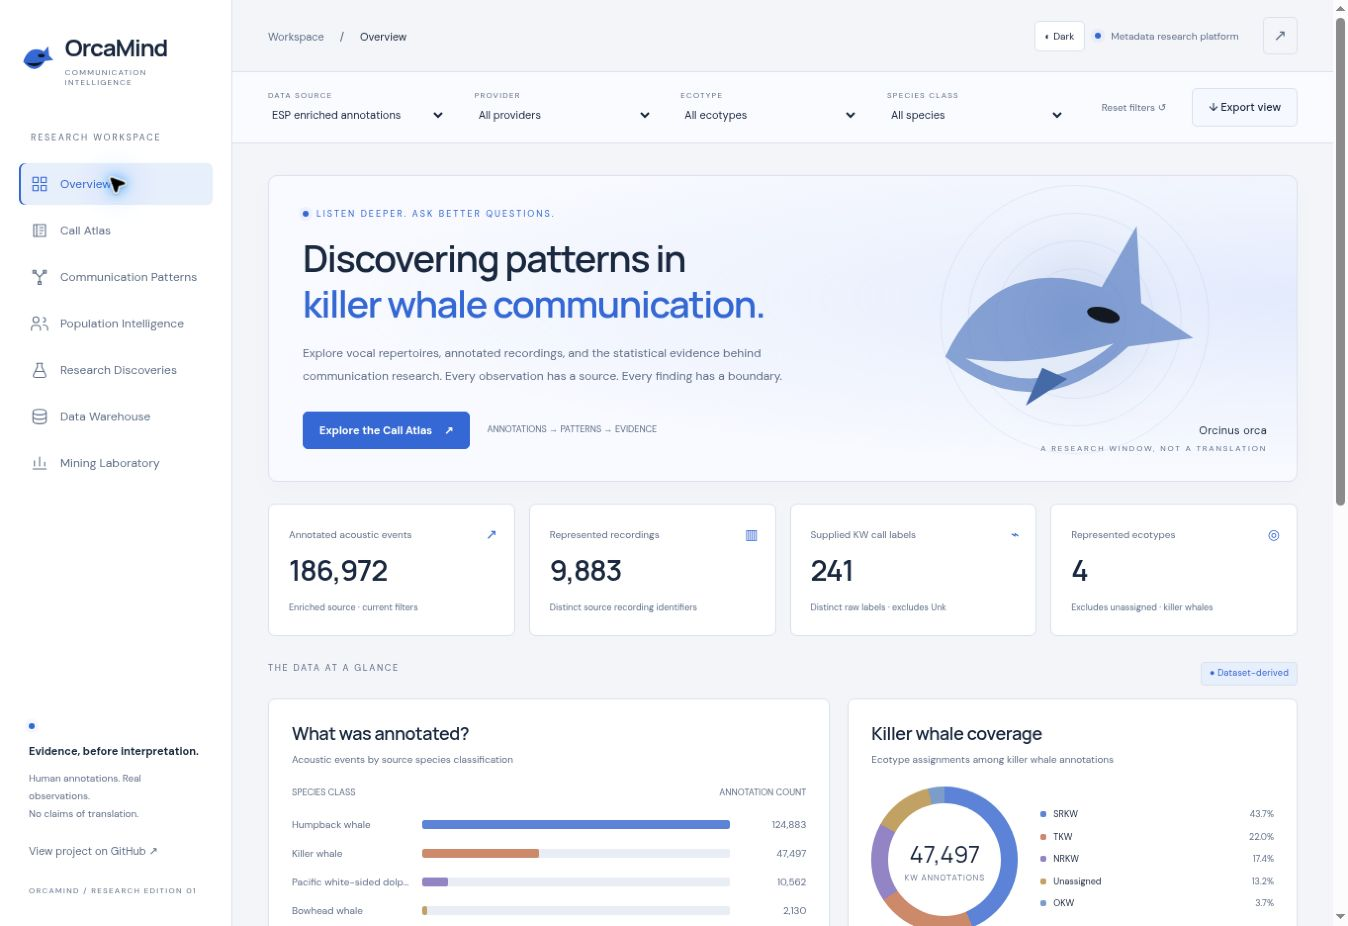
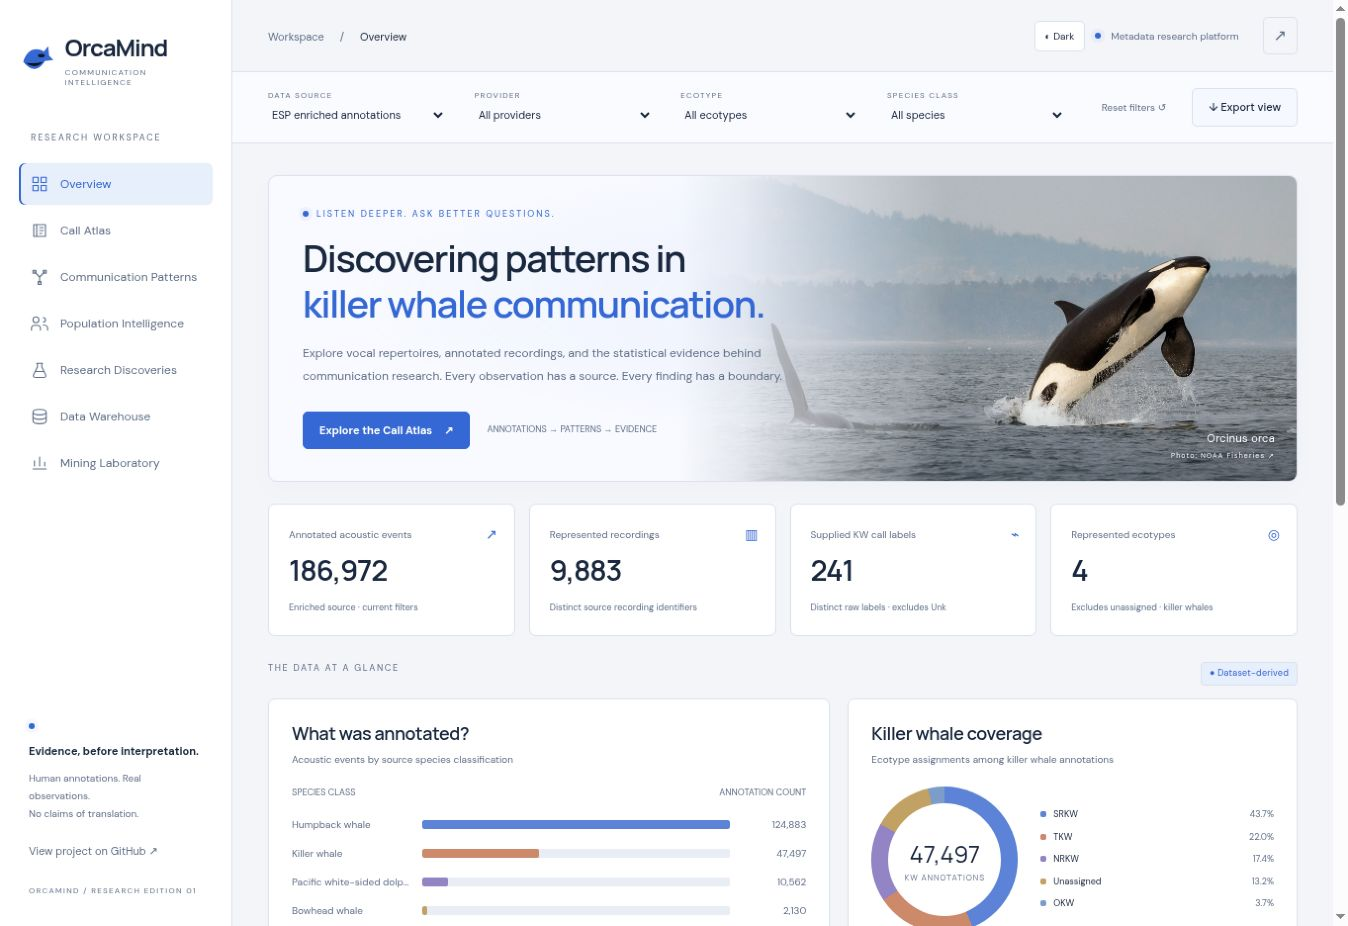
Replace hero illustration with faded orca photography

Changed region(s): [[0.5297, 0.1814, 0.9659, 0.5443], [0.0623, 0.1814, 0.0935, 0.2117]]

diff --git a/dist/app.js b/dist/app.js
@@ -32,7 +32,7 @@ function overview(){
  const a=rows(), n=sum(a), rec=new Set(a.flatMap(x=>x.recordings)), calls=unique(a.filter(x=>x.call&&x.species==='Killer whale'&&!['unk','unknown'].includes(x.call.toLowerCase())), 'call'), populations=grouped(a.filter(x=>x.species==='Killer whale'),'population');
  const popTotal=sum(populations),pops=populations.filter(x=>x.name!=='Unassigned'), species=grouped(a,'species');let angle=0;
  const gradient=populations.map((x,i)=>{const start=angle;angle+=x.count/(popTotal||1)*100;return `${colors[i%colors.length]} ${start}% ${angle}%`}).join(',');
- return `<section class="hero"><div class="hero-copy"><div class="eyebrow"><span class="live-dot"></span> LISTEN DEEPER. ASK BETTER QUESTIONS.</div><h1>Discovering patterns in<br><em>killer whale communication.</em></h1><p>Explore vocal repertoires, annotated recordings, and the statistical evidence behind communication research. Every observation has a source. Every finding has a boundary.</p><div class="hero-actions"><a class="button" href="#atlas">Explore the Call Atlas <span>↗</span></a><span class="hero-note">ANNOTATIONS → PATTERNS → EVIDENCE</span></div></div><div class="hero-art" aria-hidden="true"><svg viewBox="0 0 400 300"><defs><radialGradient id="ocean"><stop stop-color="#708fc7" stop-opacity=".3"/><stop offset="1" stop-color="#ecf1fa" stop-opacity="0"/></radialGradient></defs><circle cx="205" cy="140" r="130" fill="url(#ocean)"/>${[55,85,115,145].map(r=>`<circle cx="205" cy="140" r="${r}" fill="none" stroke="#8ea8d5" stroke-opacity=".17"/>`).join('')}<path d="M65 180Q120 65 234 105l38-66 5 83 56 38-70 9Q163 262 65 180Z" fill="#6386c5" fill-opacity=".75"/><path d="M87 182q82 50 160-16-91 27-160 16" fill="#e4ebf8"/><ellipse cx="236" cy="135" rx="18" ry="8" transform="rotate(14 236 135)" fill="#fffffffff" fill-opacity=".85"/><path d="M170 192l-18 41 45-29" fill="#4669a7"/></svg><div class="art-label"><strong>Orcinus orca</strong>A RESEARCH WINDOW, NOT A TRANSLATION</div></div></section>
+ return `<section class="hero"><div class="hero-copy"><div class="eyebrow"><span class="live-dot"></span> LISTEN DEEPER. ASK BETTER QUESTIONS.</div><h1>Discovering patterns in<br><em>killer whale communication.</em></h1><p>Explore vocal repertoires, annotated recordings, and the statistical evidence behind communication research. Every observation has a source. Every finding has a boundary.</p><div class="hero-actions"><a class="button" href="#atlas">Explore the Call Atlas <span>↗</span></a><span class="hero-note">ANNOTATIONS → PATTERNS → EVIDENCE</span></div></div><div class="hero-art"><img class="hero-photo" src="assets/orca-hero.jpg" width="1200" height="800" alt="A wild killer whale breaching above the ocean" fetchpriority="high" decoding="async"><div class="art-label"><strong>Orcinus orca</strong><a href="https://www.fisheries.noaa.gov/feature-story/limiting-chinook-fishing-low-return-years-help-killer-whales-what-do-you-think" target="_blank" rel="noreferrer">Photo: NOAA Fisheries ↗</a></div></div></section>
  <div class="stats">${stat('Annotated acoustic events',n,`${source==='compiled'?'Compiled':'Enriched'} source · current filters`)}${stat('Represented recordings',rec.size,'Distinct source recording identifiers','▥')}${stat('Supplied KW call labels',calls.length||'Unavailable',calls.length?'Distinct raw labels · excludes Unk':'Absent from compiled CSV','⌁')}${stat('Represented ecotypes',pops.length,'Excludes unassigned · killer whales','◎')}</div>
  <div class="section-label"><span>THE DATA AT A GLANCE</span><span>${badge()}</span></div><div class="grid">
  ${card('What was annotated?','Acoustic events by source species classification',`<div class="axis-label"><span>SPECIES CLASS</span><span>ANNOTATION COUNT</span></div>${bars(species,{field:'species',color:colors})}${explanation('Counts of annotated events, including non-orca acoustic classes. These are annotations, not individual animals or exhaustive population call counts. Click a bar to filter the workspace.')}`,`<span>${esc(scope())}</span><a href="#warehouse">Inspect data quality ↗</a>`)}

diff --git a/dist/styles.css b/dist/styles.css
@@ -10,3 +10,15 @@
 
 #theme-toggle{display:inline-flex;align-items:center;gap:6px;white-space:nowrap;font-size:10px;color:var(--text);background:var(--panel);padding:7px 10px}.hero{box-shadow:0 8px 30px #1f386205}.card{box-shadow:0 2px 8px #21385603}.notice strong{color:var(--text)}.schema-box p{color:var(--muted)}.sidebar-bottom a{color:var(--muted)}.hero-art .art-label strong{color:var(--text)}.button.secondary{color:var(--text)}.matrix .row-head{color:var(--muted)}.network text{fill:var(--text)}.timeline text{fill:var(--muted)}.card-foot{color:var(--muted)}.badge{color:var(--accent)}.badge.reported{color:var(--accent)}.badge.planned{color:var(--amber-text)}.stat strong{color:var(--text)}.hero-note{color:var(--muted)}.notice.amber{color:var(--amber-text)}.schema-box.fact strong{color:var(--accent)}.finding-card .comparison .baseline strong{color:var(--comparison)}
 @media(max-width:650px){.header-right{display:flex}.header-right .live-dot,.header-right>a{display:none}#theme-toggle{font-size:9px;padding:6px 8px}}
+
+/* Real wildlife photography, blended into the existing hero at the left edge. */
+.hero-copy{position:relative;z-index:2}
+.hero-art{position:absolute;inset:0 0 0 40%;min-height:0;display:block;mask-image:linear-gradient(to right,transparent 0%,rgba(0,0,0,.12) 10%,rgba(0,0,0,.48) 24%,#000 43%);-webkit-mask-image:linear-gradient(to right,transparent 0%,rgba(0,0,0,.12) 10%,rgba(0,0,0,.48) 24%,#000 43%)}
+.hero-photo{width:100%;height:100%;object-fit:cover;object-position:72% 48%;display:block}
+.hero-art::after{content:'';position:absolute;inset:0;background:linear-gradient(0deg,rgba(9,22,40,.32),transparent 30%);pointer-events:none}
+.hero-art .art-label{z-index:1;color:#f0f4fb;text-shadow:0 1px 5px #10172288;font-size:7px;letter-spacing:1.1px;bottom:20px;right:22px}
+.hero-art .art-label strong{color:#fff;font-size:11px}
+.hero-art .art-label a{text-decoration:none}
+.hero-art .art-label a:hover{text-decoration:underline}
+:root[data-theme="dark"] .hero-photo{filter:brightness(.8)}
+@media(max-width:900px){.hero-art{display:block;inset:0 0 0 26%;opacity:.22;pointer-events:none}.hero-art{mask-image:linear-gradient(to right,transparent,#000 78%);-webkit-mask-image:linear-gradient(to right,transparent,#000 78%)}.hero-photo{object-position:75% 48%}.hero-art .art-label{display:none}.hero-copy{max-width:650px}}

diff --git a/THIRD_PARTY_NOTICES.md b/THIRD_PARTY_NOTICES.md
@@ -13,3 +13,7 @@ Djay96, **Orca Explorer**, https://github.com/Djay96/orca-dclde-explorer. Report
 ## Typography
 
 DM Sans and Manrope are requested from Google Fonts, with system sans-serif fallbacks. The application remains usable without font network access. No downloaded font binaries are bundled.
+
+## Hero photography
+
+`dist/assets/orca-hero.jpg`: Southern Resident killer whale breaching, sourced from NOAA Fisheries' article [Limiting Chinook Fishing in Low-Return Years to Help Killer Whales](https://www.fisheries.noaa.gov/feature-story/limiting-chinook-fishing-low-return-years-help-killer-whales-what-do-you-think). Original image: https://www.fisheries.noaa.gov/s3/2021-06/srkw-breach.jpg?VersionId=null. Supplied photo bytes are preserved; the browser crops and fades the image with CSS for the hero layout. This is decorative wildlife photography, not a DCLDE recording observation.
